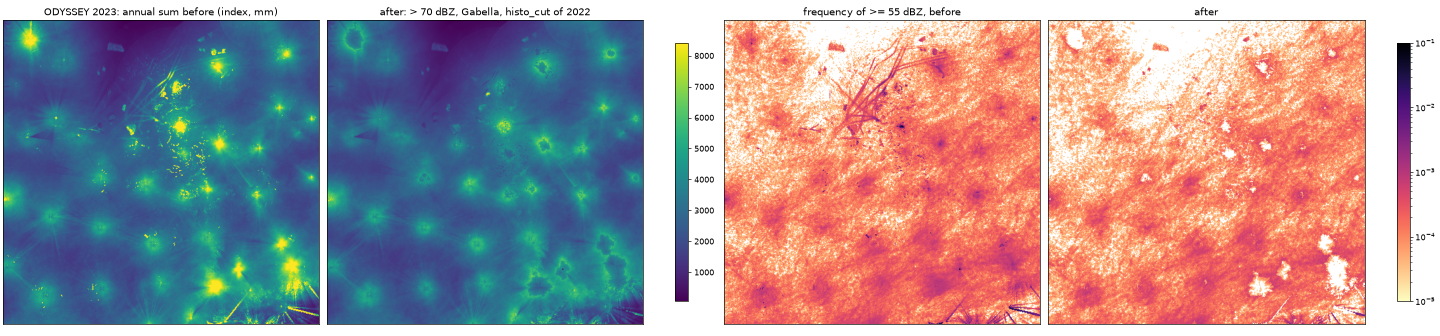
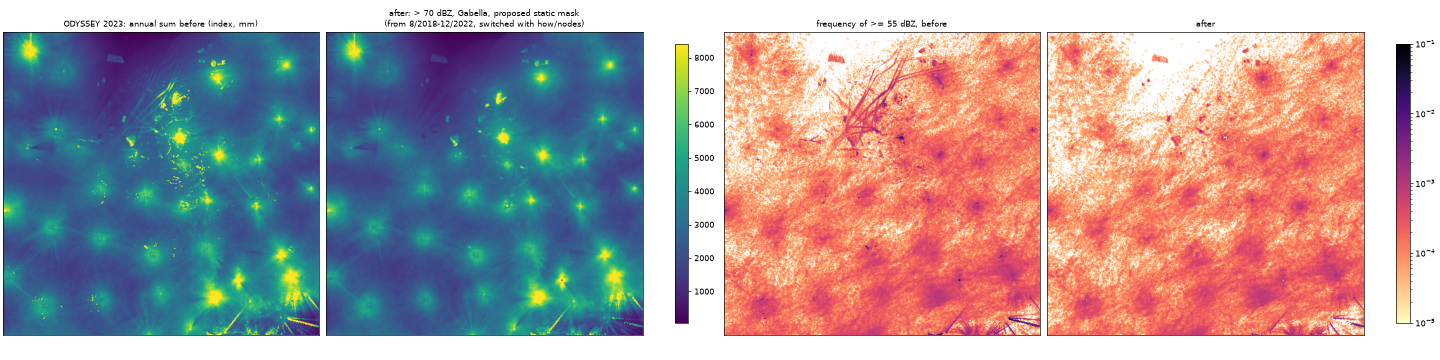
H2: first version on ODYSSEY 2023 with the proposed static mask
Notebook 05, new section 9: > 70 dBZ, Gabella and the proposed static mask
(8/2018-12/2022, attached to the nearest radar and switched with how/nodes)
on ODYSSEY 2023, with before/after numbers, maps and the spoke residual.
Section 6 (histo_cut of 2022) is kept as the evidence for ruling it out.
method.md and the figure updated.

diff --git a/docs/method.md b/docs/method.md
@@ -838,12 +838,10 @@ one example per artefact type.
   here.
 - **Spoke residual.** On the 2023 annual sum, I counted the edges where two
   adjacent azimuths differ by more than 10% (Wagner's spoke-edge rule) over
-  the 39 radars of the crop listed on at least half of the days of 2023:
-  - 1,839 before cleaning;
-  - 1,632 after Gabella;
-  - 1,517 after the first version (−18%).
-  - One year of rain also makes such edges, so 1,517 is an upper bound of the
-    spokes left (interference included).
+  the 39 radars of the crop listed on at least half of the days of 2023. The
+  numbers before and after cleaning are in *First version on ODYSSEY 2023
+  (prototype)*. One year of rain also makes such edges, so the count after
+  cleaning is an upper bound of the spokes left (interference included).
 
 ### Static mask: rules in the literature
 
@@ -911,16 +909,21 @@ Neither 1% nor 0.1% comes from the literature; both are set on our data:
 
 ### First version on ODYSSEY 2023 (prototype)
 
-`notebooks/05-mr-artefacts.ipynb`, section 6. This is an exploration of the
+`notebooks/05-mr-artefacts.ipynb`, section 9. This is an exploration of the
 *Priority* above, before the code in `opera_ds`. Each 15 min composite of
 2023 goes through three steps, in this order:
 
 1. **Impossible values:** echoes above 70 dBZ are set to no rain.
 2. **Gabella:** the cells it flags are set to no rain, as in EURADCLIM.
-3. **Static mask:** `histo_cut` of 2022, as the real-time rule requires.
+3. **Static mask:** the proposal of *Static mask: rules in the literature*,
+   computed on 8/2018–12/2022. That is the third period, before 2023, as the
+   real-time rule requires.
+   - It has 250 pixels, 25 of them in Belgium.
+   - Each pixel belongs to its nearest radar within 20 km, and is on only on
+     the days that radar is listed in `how/nodes`.
    - The rain of a masked cell is replaced by the inverse-distance mean of its
-     4 nearest unmasked cells, but only when that mean is lower.
-   - EURADCLIM does this on hourly sums. Here it is done on each composite.
+     4 nearest unmasked cells, but only when that mean is lower. EURADCLIM
+     does this on hourly sums; here it is done on each composite.
 
 Settings:
 - **Rain:** Marshall–Palmer, capped at 55 dBZ, from 7 dBZ (Imhoff et al.
@@ -932,37 +935,46 @@ Settings:
 
 | pixels | > 70 dBZ | Gabella | static mask | total |
 |---|---:|---:|---:|---:|
-| all | 0.16% | 5.12% | 3.87% | 9.15% |
-| convective | 0.25% | 7.36% | 5.25% | 12.86% |
-| stratiform | 0.00% | 1.37% | 1.56% | 2.93% |
+| all | 0.16% | 5.12% | 0.32% | 5.60% |
+| convective | 0.25% | 7.36% | 0.51% | 8.12% |
+| stratiform | 0.00% | 1.37% | 0.02% | 1.38% |
 
 The table gives the share of the 2023 rain, as an index, that each step
 removes.
 
-- **Belgium.** 12.0% of the annual sum is removed: from 3,765 to 3,312 mm,
+- **Belgium.** 8.4% of the annual sum is removed: from 3,765 to 3,447 mm,
   as an index.
 - **Which echoes are kept:**
-  - above 70 dBZ, 0.2% are kept; the 83 left are exactly 70.0 dBZ;
-  - 55–70 dBZ: 63% kept;
-  - 40–55 dBZ: 85% kept;
-  - 20–40 dBZ: 94% kept;
-  - 0–20 dBZ: 93% kept.
+  - above 70 dBZ, 0.2% are kept; the 101 left are exactly 70.0 dBZ;
+  - 55–70 dBZ: 72% kept;
+  - 40–55 dBZ: 94% kept;
+  - 20–40 dBZ: 98% kept;
+  - 0–20 dBZ: 94% kept.
 - **Strong echoes that repeat** (≥ 55 dBZ):
-  - pixels with them in more than 0.1% of the times: from 1,984 to 209;
-  - pixels with them in more than 1% of the times: from 166 to 0;
-  - the North Sea lines and the fixed points go;
-  - part of the radial lines in the south-east stays. This is the
-    interference residual that *Choice* asks to measure.
-- **The mask of 2022 overshoots on 2023.** After cleaning, the annual sum
-  shows dark rings and holes around several radars. The ≥ 55 dBZ frequency
-  shows blank patches. In these places, real strong echoes of 2023 were
-  lowered together with the clutter. This follows from the instability of the
-  mask across years.
+  - pixels with them in more than 0.1% of the times: from 1,984 to 577;
+  - pixels with them in more than 1% of the times: from 166 to 2;
+  - the North Sea lines and most fixed points go;
+  - part of the radial lines in the south-east stays.
+- **No holes around the radars.** The annual sum after cleaning keeps the
+  discs: they are the near-radar excess, a matter of harmonisation with
+  CIRRUS, not of cleaning.
+- **What stays:**
+  - some of the discs with no radar, as expected (*Static mask: rules in the
+    literature*);
+  - the radial lines.
+- **Spoke residual** (39 radars, as in *Catalogue: isolated echoes, blocked
+  sectors, spokes*): 1,839 edges before, 1,632 after Gabella and 1,629 after
+  the static mask. Gabella removes 11% of the edges; the static mask almost
+  none.
 - **Gabella and real rain.** Over the year, Gabella removes 7.36% of the
   convective rain. That is more than the 4.9% on the five summer days of
   *Gabella filter at 2 km and 1 km*, because here the share also includes the
   fixed points that Steiner classes as convective. This number is to be read
   together with the trimming of real cells noted there.
+- **The earlier prototype with `histo_cut` of 2022** (section 6, ruled out)
+  removed 9.15% of the rain (12.86% of the convective rain). It left dark
+  rings and holes around several radars, where real strong echoes of 2023
+  were lowered together with the clutter.
 
 ### Sea clutter and anomalous propagation: literature
 
